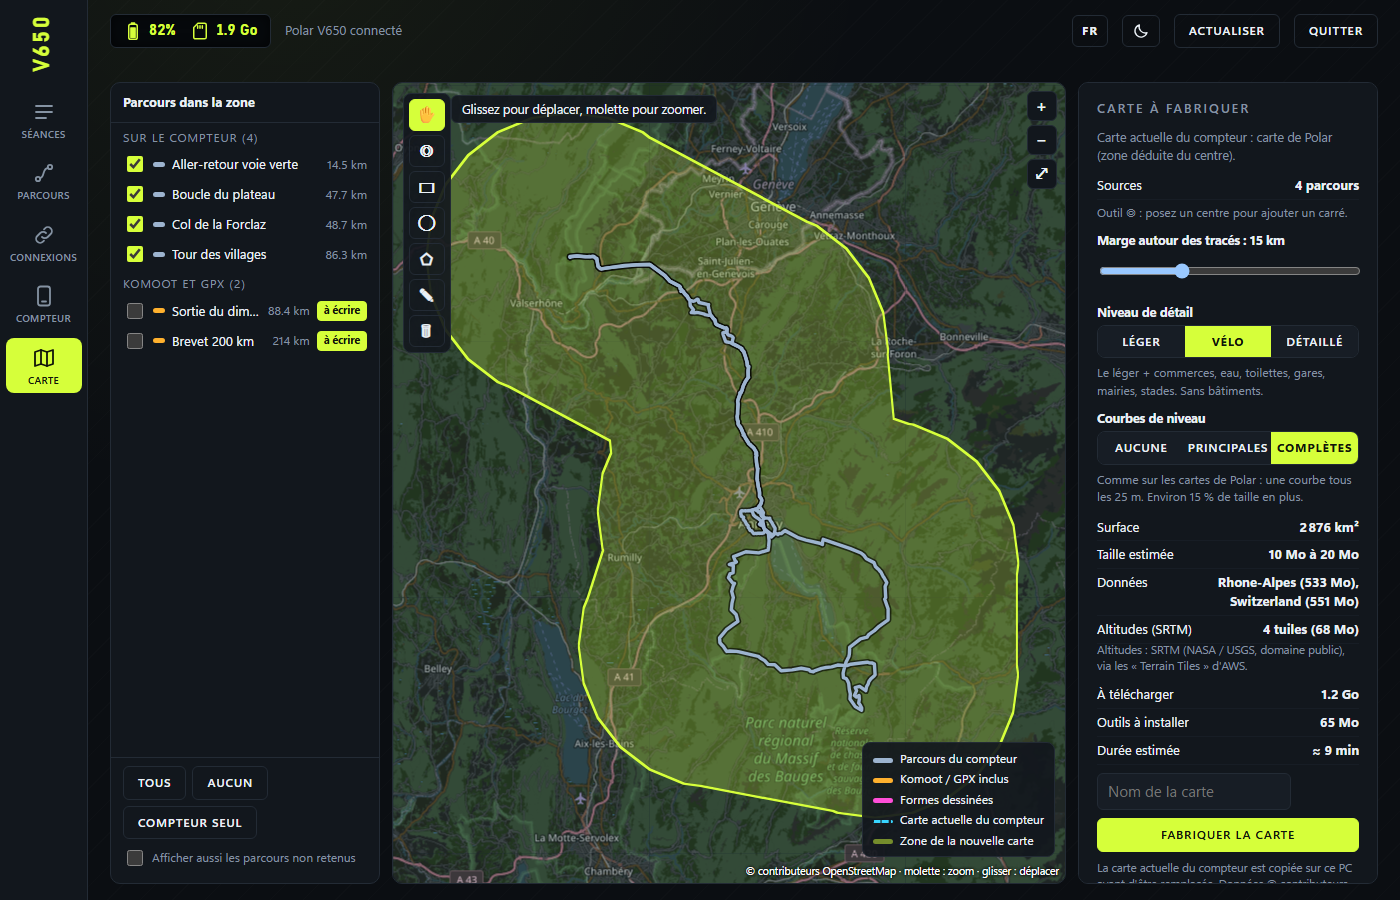
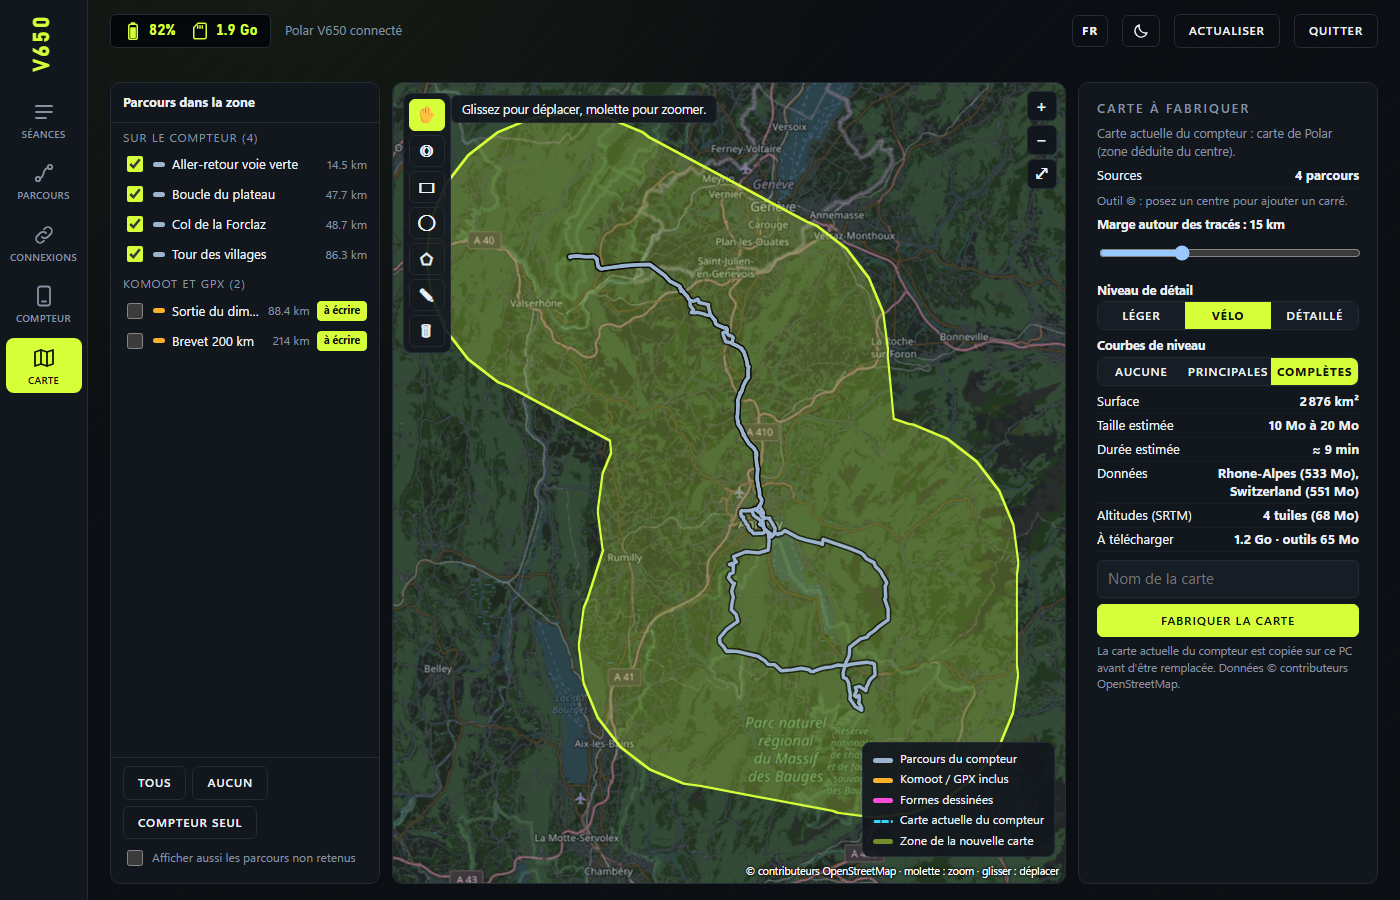
Éditeur de carte : panneau de droite plus compact ; courbes de niveau validées sur le compteur

Changed region(s): [[0.7679, 0.1244, 0.9829, 0.84], [0.7679, 0.8711, 0.9829, 0.9956]]

diff --git a/v650sync/index.html b/v650sync/index.html
@@ -75,6 +75,7 @@ pre{background:#06090c;color:#9fb0c0;border-radius:8px;padding:10px;max-height:2
 @media(prefers-color-scheme:light){:root:not([data-theme=dark]) .edtools,:root:not([data-theme=dark]) .edleg,:root:not([data-theme=dark]) .edhint{background:rgba(248,246,239,.95)}}
 :root[data-theme=light] .edtools button,:root[data-theme=light] .edleg,:root[data-theme=light] .edhint{color:var(--ink)}
 @media(prefers-color-scheme:light){:root:not([data-theme=dark]) .edtools button,:root:not([data-theme=dark]) .edleg,:root:not([data-theme=dark]) .edhint{color:var(--ink)}}
+#ed_right h2{margin-bottom:6px}#ed_right .kv{padding:2px 0}#ed_right .edh{margin:6px 0 2px}#ed_right .seg{margin:2px 0 4px}#ed_right .seg button{padding:5px 2px}
 .updtag{background:transparent;color:var(--lime);border:1px solid var(--lime);border-radius:99px;padding:3px 12px;font-size:12px;white-space:nowrap}.updtag:hover{background:var(--lime);color:var(--on-lime)}</style></head><body>
 <div class="shell">
  <nav class="rail">
@@ -784,24 +785,23 @@ function edRight(err){const p=ED.plan,o=ED,nd=[...o.inc].filter(id=>LIB.find(x=>
  const regs=p?p.regions.map(r=>`${esc(r.name)} (${r.cached?"déjà téléchargé":r.mb?fmtMo(r.mb):"?"})`).join(", "):"";
  const tl=p&&!p.tools.installed?`<div class="kv"><span>Outils à installer</span><b>${fmtMo(p.tools.download_mb)}</b></div>`:"";
  $("ed_right").innerHTML=`<h2>Carte à fabriquer</h2>
-  <div class="mut" style="font-size:12.5px;margin-bottom:8px">${cov?`Carte actuelle du compteur : ${esc(cov.name||"")}.`:"Carte actuelle du compteur : inconnue (compteur non lu)."}${instInfo()}</div>
+  <div class="mut" style="font-size:12.5px;margin-bottom:4px" title="${esc(instInfo().trim())}">${cov?`Carte actuelle du compteur : ${esc(cov.name||"")}.`:"Carte actuelle du compteur : inconnue (compteur non lu)."}</div>
   <div class="kv"><span>Sources</span><b>${o.inc.size} parcours${o.shapes.length?` · ${o.shapes.length} forme${o.shapes.length>1?"s":""}`:""}${o.center&&o.sq?" · carré":""}</b></div>
-  ${o.center?`<div class="row" style="margin:6px 0"><label>Carré autour du centre <select id="ed_sq"><option value="0">aucun</option><option value="25">${kmTxt(50)} de côté</option><option value="50">${kmTxt(100)}</option><option value="75">${kmTxt(150)}</option><option value="100">${kmTxt(200)}</option></select></label></div>`:'<div class="mut" style="font-size:12px;margin:4px 0">Outil ◎ : posez un centre pour ajouter un carré.</div>'}
+  ${o.center?`<div class="kv"><span>Carré autour du centre</span><select id="ed_sq" style="padding:2px 6px"><option value="0">aucun</option><option value="25">${kmTxt(50)} de côté</option><option value="50">${kmTxt(100)}</option><option value="75">${kmTxt(150)}</option><option value="100">${kmTxt(200)}</option></select></div>`:'<div class="mut" style="font-size:12px;margin:4px 0">Outil ◎ : posez un centre pour ajouter un carré.</div>'}
   <h3 class="edh">Marge autour des tracés : <b id="ed_mv">${kmTxt(o.margin)}</b></h3><input type="range" id="ed_m" min="5" max="40" step="1" value="${o.margin}" style="width:100%">
-  <h3 class="edh">Niveau de détail</h3><div class="seg">${Object.entries(PROFN).map(([k,v])=>`<button data-p="${k}" class="${o.profile===k?"on":""}">${v[0]}</button>`).join("")}</div><div class="mut" style="font-size:12px;margin-bottom:8px">${PROFN[o.profile][1]}</div>
-  <h3 class="edh">Courbes de niveau</h3><div class="seg">${Object.entries(CONTN).map(([k,v])=>`<button data-c="${k}" class="${o.contours===k?"on":""}">${v[0]}</button>`).join("")}</div><div class="mut" style="font-size:12px;margin-bottom:8px">${CONTN[o.contours][1]}</div>
-  ${err?`<div class="err" style="margin:8px 0">${esc(err)}</div>`:p?`<div class="kv"><span>Surface</span><b>${A2(p.area_km2).toLocaleString(LOC)} ${UA2}</b></div><div class="kv"><span>Taille estimée</span><b>${fmtMo(p.estimate_mb[0])} ${TO} ${fmtMo(p.estimate_mb[1])}</b></div>
-   <div class="kv"><span>Données</span><b style="text-align:right;max-width:150px">${regs||"—"}</b></div>
-   ${p.dem?`<div class="kv"><span>Altitudes (SRTM)</span><b style="text-align:right;max-width:150px">${p.dem.tiles.filter(t=>!t.sea).length} tuile${p.dem.tiles.filter(t=>!t.sea).length>1?"s":""} (${p.dem.download_mb?fmtMo(p.dem.download_mb):"déjà téléchargées"})</b></div><div class="mut" style="font-size:11.5px;margin:-2px 0 6px">${esc(p.dem.credit)}</div>`:""}
-   ${p.warning?`<div class="warn" style="margin:8px 0;font-size:12.5px">⚠ ${esc(p.warning)}</div>`:""}
-   ${p.osm_date?`<div class="kv"><span>Date des données déjà téléchargées</span><b>${frd(p.osm_date)} <span class="mut" style="font-weight:400">(il y a ${ageDays(p.osm_date)} j)</span></b></div>
-    <label class="row" style="gap:8px;margin:2px 0 6px;font-size:12.5px"><input type="checkbox" id="ed_refresh" ${o.refresh?"checked":""}> Télécharger des données plus récentes (nouvelles routes…) : ${fmtMo(p.all_mb)}</label>`:""}
-   <div class="kv"><span>À télécharger</span><b>${(o.refresh&&p.osm_date)?fmtMo(p.all_mb):p.download_mb?fmtMo(p.download_mb):"rien"}</b></div>${tl}<div class="kv"><span>Durée estimée</span><b>≈ ${p.minutes} min</b></div>`:'<div class="mut" style="margin:10px 0;font-size:13px">Cochez des parcours ou dessinez une zone.</div>'}
-  <div class="row" style="margin-top:8px"><input id="ed_name" size="22" maxlength="60" placeholder="Nom de la carte" value="${esc(o.name||"")}"></div>
-  <button class="p" id="ed_build" style="width:100%;margin-top:8px" ${p?"":"disabled"}>Fabriquer la carte</button>
+  <h3 class="edh">Niveau de détail</h3><div class="seg" title="${esc(PROFN[o.profile][1])}">${Object.entries(PROFN).map(([k,v])=>`<button data-p="${k}" title="${esc(v[1])}" class="${o.profile===k?"on":""}">${v[0]}</button>`).join("")}</div>
+  <h3 class="edh">Courbes de niveau</h3><div class="seg" title="${esc(CONTN[o.contours][1])}">${Object.entries(CONTN).map(([k,v])=>`<button data-c="${k}" title="${esc(v[1])}" class="${o.contours===k?"on":""}">${v[0]}</button>`).join("")}</div>
+  ${err?`<div class="err" style="margin:8px 0">${esc(err)}</div>`:p?`<div class="kv"><span>Surface</span><b>${A2(p.area_km2).toLocaleString(LOC)} ${UA2}</b></div><div class="kv"><span>Taille estimée</span><b>${fmtMo(p.estimate_mb[0])} ${TO} ${fmtMo(p.estimate_mb[1])}</b></div><div class="kv"><span>Durée estimée</span><b>≈ ${p.minutes} min</b></div>
+   <div class="kv"><span>Données</span><b style="text-align:right;max-width:170px">${regs||"—"}</b></div>
+   ${p.dem?`<div class="kv" title="${esc(p.dem.credit)}"><span>Altitudes (SRTM)</span><b>${p.dem.tiles.filter(t=>!t.sea).length} tuile${p.dem.tiles.filter(t=>!t.sea).length>1?"s":""} (${p.dem.download_mb?fmtMo(p.dem.download_mb):"déjà téléchargées"})</b></div>`:""}
+   ${p.warning?`<div class="warn" style="margin:6px 0;font-size:12.5px">⚠ ${esc(p.warning)}</div>`:""}
+   ${p.osm_date?`<label class="row" style="gap:8px;margin:4px 0 2px;font-size:12.5px"><input type="checkbox" id="ed_refresh" ${o.refresh?"checked":""}> Données plus récentes (données du ${frd(p.osm_date)}) : ${fmtMo(p.all_mb)}</label>`:""}
+   <div class="kv"><span>À télécharger</span><b>${(o.refresh&&p.osm_date)?fmtMo(p.all_mb):p.download_mb?fmtMo(p.download_mb):"rien"}${tl?` · outils ${fmtMo(p.tools.download_mb)}`:""}</b></div>`:'<div class="mut" style="margin:8px 0;font-size:13px">Cochez des parcours ou dessinez une zone.</div>'}
+  <input id="ed_name" maxlength="60" placeholder="Nom de la carte" value="${esc(o.name||"")}" style="width:100%;margin-top:8px;box-sizing:border-box">
+  <button class="p" id="ed_build" style="width:100%;margin-top:6px" ${p?"":"disabled"}>Fabriquer la carte</button>
   ${nd.length?`<button id="ed_wr" style="width:100%;margin-top:6px">Écrire les ${nd.length} parcours à écrire</button>`:""}
   ${o.built?`<button class="p" id="ed_wmap" style="width:100%;margin-top:6px">Écrire « ${esc(o.built.name)} » sur le compteur (${fmtMo(o.built.size/1e6)})</button>`:""}
-  <div class="mut" style="font-size:11.5px;margin-top:8px">La carte actuelle du compteur est copiée sur ce PC avant d'être remplacée. Données © contributeurs OpenStreetMap.</div><div id="ed_job" style="margin-top:8px"></div>`;
+  <div class="mut" style="font-size:11.5px;margin-top:6px">La carte actuelle du compteur est copiée sur ce PC avant d'être remplacée. Données © contributeurs OpenStreetMap.</div><div id="ed_job" style="margin-top:6px"></div>`;
  if($("ed_sq"))$("ed_sq").value=o.sq;if($("ed_sq"))$("ed_sq").onchange=e=>{o.sq=+e.target.value;edDraw();edPlanSoon();edRight()};
  if($("ed_refresh"))$("ed_refresh").onchange=e=>{o.refresh=e.target.checked;edRight()};
  $("ed_m").oninput=e=>{o.margin=+e.target.value;$("ed_mv").textContent=kmTxt(o.margin);edPlanSoon()};$("ed_name").oninput=e=>o.name=e.target.value;

diff --git a/docs/NOTES-TECHNIQUES.fr.md b/docs/NOTES-TECHNIQUES.fr.md
@@ -51,7 +51,7 @@ Légende : ✅ validé sur le **vrai compteur** ou le **vrai service** · 🧪 t
 | Bibliothèque de parcours unifiée (compteur, Komoot, GPX) | ✅ | statut « synchronisé » décidé sur la trace |
 | **Komoot** (connexion, liste, GPX, écriture sur le compteur) | ✅ | compte réel ; origine « Komoot » reconnue grâce à l'identifiant noté dans le parcours par FlowSync |
 | **Intervals.icu** (test, envoi manuel d'une séance) | ✅ | service réel |
-| **Envoi d'une séance à Komoot** (FIT) | 🧪 | API interne de Komoot (comme `kompy.upload_tour`) ; testé avec un faux serveur seulement, **pas encore sur un compte réel** |
+| **Envoi d'une séance à Komoot** (FIT) | ✅ | API interne de Komoot (comme `kompy.upload_tour`) ; testé avec un faux serveur, puis validé par l'auteur sur un compte réel |
 | Envoi automatique des nouvelles séances (Intervals, Komoot, GPX) | 🧪 | désactivé par défaut |
 | Fabrication de cartes (Mapsforge v3, OpenStreetMap) | ✅ | cartes affichées par le compteur ; zone dessinée respectée |
 | Écriture d'une carte sur le compteur (multi-trames, relecture, empreinte) | ✅ | ~2,2 Mo/s |
@@ -59,7 +59,7 @@ Légende : ✅ validé sur le **vrai compteur** ou le **vrai service** · 🧪 t
 | Fenêtre modale de suivi (étapes, barres, durée, annulation) | ✅ | |
 | Journal détaillé, rapport de bug | ✅ | |
 | Exécutable `V650Sync.exe` (~14 Mo, sans console, non signé) | ✅ | Windows 11 ; **Windows 10 non testé** |
-| Courbes de niveau sur les cartes générées | 🧪 | option aucune / principales / complètes (altitudes SRTM, §6.4) ; **affichage sur le compteur non vérifié**, désactivées par défaut |
+| Courbes de niveau sur les cartes générées | ✅ | option aucune / principales / complètes (altitudes SRTM, §6.4) ; affichage sur le compteur validé par l'auteur ; désactivées par défaut |
 | Interface en français et en anglais ; unités (km / miles) selon le réglage du compteur | 🧪 | traduction à l'exécution (§3.6) ; vérifiée par balayage automatique de la page, pas par un relecteur anglophone |
 | Avis de mise à jour (GitHub, une fois par jour, désactivable) | 🧪 | testé avec un faux serveur ; **ne fonctionne qu'une fois une version publiée** sur le dépôt public (§7) |
 | Export des intervalles RR, température, `device_info` dans le FIT | ❌ | absents du FIT |
@@ -197,7 +197,7 @@ Les outils sont épinglés par empreinte SHA-256 et téléchargés **à la deman
 - **Calcul** (`v650sync/contours.py`, Python standard, sans numpy) : mosaïque des tuiles, cellules de la zone seulement (le coût suit la surface, pas le rectangle englobant), lignes de niveau par « marching squares », raccordement des segments, simplification (Douglas-Peucker, 6 m), points au plus 4 millions de cellules (au-delà : un point sur deux, puis trois…). Mesuré : 960 km² à 30 m en 2,4 s, ~1 500 lignes, 117 000 points.
 - **Intégration** : fichier OSM XML (identifiants très élevés, horodatage obligatoire), lu par `--read-xml` puis fusionné (`--merge`) avec l'extrait OpenStreetMap avant l'écriture. **Sans `--bounding-polygon` sur ce flux** : avec les identifiants très élevés des courbes, ce filtre supprimait des lignes entières (4 982 voies gardées sur 6 948, 18 tuiles vides de la carte) ; le calcul s'arrête déjà aux bords de la zone (une cellule de marge). Les balises de courbes ont `zoom-appear` 10 / 11 comme chez Polar et **`force-polygon-line`** : sans cela, une courbe fermée est prise pour une surface et le compteur dessine un quadrillage aux bords des tuiles. Osmosis ne se ferme plus après une lecture XML : l'application l'arrête 20 s après « Finished writing file ».
 - **Résultat** : carte de 28 × 28 km autour d'Annecy, 4,26 Mo avec toutes les courbes contre 3,69 Mo sans (+15 % ; environ +4 % avec les seules principales), fabriquée en 43 s.
-- **À vérifier** : le rendu sur le compteur (finesse, lisibilité à 100 m et 200 m, fluidité), avant d'activer les courbes par défaut.
+- **Vérifié** : les courbes s'affichent sur le compteur (validé par l'auteur). Pas étudiés en détail : finesse, lisibilité à 100 m et 200 m, fluidité ; elles restent désactivées par défaut.
 
 ## 7. Intégrations externes
 
@@ -279,6 +279,6 @@ Ligne de commande (`python -m v650sync …`) : `info`, `ls`, `backup`, `export`,
 
 **Limites** : un seul compteur (pas de multi-appareils) ; décalage horaire en heures entières ; parcours ≤ ~15 Ko (une trame) ; carré blanc autour des cartes ; zone de bordure sans remplissage ; Windows 10 non testé ; interface anglaise = traduction à l'exécution (quelques messages restent en français : boîtes de dialogue natives de Windows, première fenêtre de choix du dossier, journal) ; exe non signé (SmartScreen) ; l'interface interne de Komoot peut changer.
 
-**Pistes** : valider les courbes de niveau sur le compteur (puis les activer par défaut), noms de villes plus nombreux sur l'éditeur, signature de code et installeur, FIT complet (RR, température), multi-appareils, relecture de l'anglais par un anglophone, autres langues.
+**Pistes** : décider d'activer les courbes de niveau par défaut, noms de villes plus nombreux sur l'éditeur, signature de code et installeur, FIT complet (RR, température), multi-appareils, relecture de l'anglais par un anglophone, autres langues.
 
 **Ne sera pas fait** : modification du firmware ; API Strava ; analyse d'entraînement ; modification du profil (poids, taille…) : essayée sur le vrai compteur, sans effet visible (§11).

diff --git a/docs/TECHNICAL-NOTES.md b/docs/TECHNICAL-NOTES.md
@@ -51,7 +51,7 @@ Legend: ✅ validated on the **real device** or the **real service** · 🧪 tes
 | Unified route library (device, Komoot, GPX) | ✅ | "synchronised" status decided on the track |
 | **Komoot** (sign-in, list, GPX, writing to the device) | ✅ | real account; "Komoot" origin recognised thanks to the id FlowSync notes in the route |
 | **Intervals.icu** (test, manual session upload) | ✅ | real service |
-| **Sending a session to Komoot** (FIT) | 🧪 | Komoot's internal API (like `kompy.upload_tour`); tested with a fake server only, **not yet on a real account** |
+| **Sending a session to Komoot** (FIT) | ✅ | Komoot's internal API (like `kompy.upload_tour`); tested with a fake server, then validated by the author on a real account |
 | Automatic upload of new sessions (Intervals, Komoot, GPX) | 🧪 | off by default |
 | Map building (Mapsforge v3, OpenStreetMap) | ✅ | maps displayed by the device; drawn area respected |
 | Writing a map to the device (multi-frame, read-back, checksum) | ✅ | ~2.2 MB/s |
@@ -59,7 +59,7 @@ Legend: ✅ validated on the **real device** or the **real service** · 🧪 tes
 | Modal progress window (steps, bars, duration, cancel) | ✅ | |
 | Detailed log, bug report | ✅ | |
 | `V650Sync.exe` executable (~14 MB, no console, unsigned) | ✅ | Windows 11; **Windows 10 untested** |
-| Contour lines on generated maps | 🧪 | none / main / full option (SRTM elevations, §6.4); **display on the device not verified**, off by default |
+| Contour lines on generated maps | ✅ | none / main / full option (SRTM elevations, §6.4); display on the device validated by the author; off by default |
 | English and French interface; units (km / miles) following the device's setting | 🧪 | runtime translation (§3.6); checked by an automated sweep of the page, not by a native English reader |
 | Update notice (GitHub, once a day, can be turned off) | 🧪 | tested with a fake server; **only works once a release is published** on the public repository (§7) |
 | Export of RR intervals, temperature, `device_info` in the FIT | ❌ | absent from the FIT |
@@ -197,7 +197,7 @@ The tools are pinned by SHA-256 checksum and downloaded **on demand**, from thei
 - **Computation** (`v650sync/contours.py`, standard Python, no numpy): mosaic of the tiles, cells of the area only (the cost follows the surface, not the bounding rectangle), contour lines by "marching squares", joining of segments, simplification (Douglas-Peucker, 6 m), at most 4 million cells (beyond that: one point out of two, then three…). Measured: 960 km² at 30 m in 2.4 s, ~1,500 lines, 117,000 points.
 - **Integration**: OSM XML file (very high ids, mandatory timestamp), read by `--read-xml` then merged (`--merge`) with the OpenStreetMap extract before writing. **No `--bounding-polygon` on this stream**: with the very high ids of the contours, this filter removed whole lines (4,982 ways kept out of 6,948, 18 empty tiles on the map); the computation already stops at the edges of the area (one cell of margin). The contour tags have `zoom-appear` 10 / 11 as at Polar and **`force-polygon-line`**: without it, a closed contour is taken for a surface and the device draws a grid at tile edges. Osmosis no longer exits after an XML read: the application stops it 20 s after "Finished writing file".
 - **Result**: a 28 × 28 km map around Annecy, 4.26 MB with all contour lines against 3.69 MB without (+15 %; about +4 % with main lines only), built in 43 s.
-- **To check**: the rendering on the device (fineness, legibility at 100 m and 200 m, smoothness), before turning contour lines on by default.
+- **Verified**: the contour lines display on the device (validated by the author). Not studied in detail: fineness, legibility at 100 m and 200 m, smoothness; they stay off by default.
 
 ## 7. External integrations
 
@@ -279,6 +279,6 @@ Command line (`python -m v650sync …`): `info`, `ls`, `backup`, `export`, `rout
 
 **Limitations**: a single device (no multi-device); time zone offset in whole hours; routes ≤ ~15 KB (one frame); white square around maps; border area without fill; Windows 10 untested; the English interface is a runtime translation (a few messages stay in French: native Windows dialogs, the first window to choose the folder, the log); unsigned exe (SmartScreen); Komoot's internal interface may change.
 
-**Ideas**: validate contour lines on the device (then turn them on by default), more city names in the editor, code signing and an installer, full FIT (RR, temperature), multi-device, a review of the English by a native speaker, other languages.
+**Ideas**: decide whether to turn contour lines on by default, more city names in the editor, code signing and an installer, full FIT (RR, temperature), multi-device, a review of the English by a native speaker, other languages.
 
 **Will not be done**: firmware modification; Strava API; training analysis; editing the profile (weight, height…): tried on the real device, no visible effect (§11).

diff --git a/README.fr.md b/README.fr.md
@@ -116,7 +116,7 @@ L'exécutable ne contient pas les outils de fabrication de cartes (ils sont lour
 - Testé sur un seul V650 et sous Windows 11 ; Windows 10 non testé. Windows 7/8 non pris en charge.
 - L'accès à Komoot passe par une interface non officielle qui peut changer ou être restreinte sans préavis. N'utilisez que votre propre compte, avec modération.
 - Les cartes fabriquées utilisent des données OpenStreetMap (© contributeurs OpenStreetMap, ODbL). Le compteur n'affiche pas d'icônes pour les commerces, seulement leur nom. Il affiche un carré blanc autour de la carte (le rectangle englobant du fichier) ; la zone elle-même est exacte.
-- **Courbes de niveau** (option « Aucune / Principales / Complètes » dans l'éditeur de carte) : elles sont calculées à partir des altitudes SRTM, avec les mêmes marques que les cartes de Polar. **Leur affichage sur le compteur n'a pas encore été vérifié** : elles sont désactivées par défaut. La précision suit celle des données SRTM (environ 30 m) ; sur de grandes zones, le calcul utilise un point sur deux ou trois.
+- **Courbes de niveau** (option « Aucune / Principales / Complètes » dans l'éditeur de carte) : elles sont calculées à partir des altitudes SRTM, avec les mêmes marques que les cartes de Polar. **Leur affichage a été vérifié sur le compteur** ; elles sont désactivées par défaut pour garder des cartes légères. La précision suit celle des données SRTM (environ 30 m) ; sur de grandes zones, le calcul utilise un point sur deux ou trois.
 - Les détails techniques (protocole, formats, validations) sont dans [`docs/NOTES-TECHNIQUES.fr.md`](docs/NOTES-TECHNIQUES.fr.md).
 
 ## Contribuer

diff --git a/README.md b/README.md
@@ -116,7 +116,7 @@ The executable does not include the map-building tools (they are heavy). **When 
 - Tested on a single V650 and on Windows 11; Windows 10 is untested. Windows 7/8 are not supported.
 - Access to Komoot goes through an unofficial interface that may change or be restricted without notice. Use only your own account, in moderation.
 - The built maps use OpenStreetMap data (© OpenStreetMap contributors, ODbL). The device does not show icons for shops, only their name. It shows a white square around the map (the bounding rectangle of the file); the area itself is exact.
-- **Contour lines** ("None / Main / Full" option in the map editor): they are computed from SRTM elevations, with the same marks as Polar's maps. **Their display on the device has not been verified yet**: they are off by default. Accuracy follows that of the SRTM data (about 30 m); on large areas, the computation uses one point out of two or three.
+- **Contour lines** ("None / Main / Full" option in the map editor): they are computed from SRTM elevations, with the same marks as Polar's maps. **Their display has been checked on the device**; they are off by default to keep maps light. Accuracy follows that of the SRTM data (about 30 m); on large areas, the computation uses one point out of two or three.
 - The English interface is a runtime translation of the French source text: a few rare messages (the first-run folder dialog, native Windows dialogs, the log) stay in French.
 - Technical details (protocol, formats, validations) are in [`docs/TECHNICAL-NOTES.md`](docs/TECHNICAL-NOTES.md).
 

diff --git a/docs/COMPARAISON-CARTES.fr.md b/docs/COMPARAISON-CARTES.fr.md
@@ -64,7 +64,7 @@ Même comparaison, avec la carte V650 Sync fabriquée **avec toutes les courbes*
 
 ![Zoom 16 avec courbes de niveau](comparaison/courbes-zoom16.png)
 
-Ce rendu est celui de mon lecteur de cartes. **Le rendu sur l'écran du compteur n'est pas encore vérifié**, d'où l'option désactivée par défaut. Altitudes : SRTM (NASA / USGS, domaine public), via les « Terrain Tiles » d'AWS.
+Ce rendu est celui de mon lecteur de cartes, pas celui du compteur. **Les courbes de niveau ont été vérifiées sur le compteur lui-même et s'affichent correctement** ; l'option reste désactivée par défaut pour garder des cartes légères. Altitudes : SRTM (NASA / USGS, domaine public), via les « Terrain Tiles » d'AWS.
 
 ## Comment ces images ont été faites
 

diff --git a/docs/MAP-COMPARISON.md b/docs/MAP-COMPARISON.md
@@ -64,7 +64,7 @@ Same comparison, with the V650 Sync map built **with full contour lines** (one l
 
 ![Zoom 16 with contour lines](comparison/contours-zoom16.png)
 
-This rendering is the one from my map viewer. **The rendering on the device's screen has not been verified yet**, hence the option being off by default. Elevations: SRTM (NASA / USGS, public domain), via AWS "Terrain Tiles".
+This rendering is the one from my map viewer, not the device's. **The contour lines have been checked on the device itself and display correctly**; the option stays off by default to keep maps light. Elevations: SRTM (NASA / USGS, public domain), via AWS "Terrain Tiles".
 
 ## How these images were made
 
